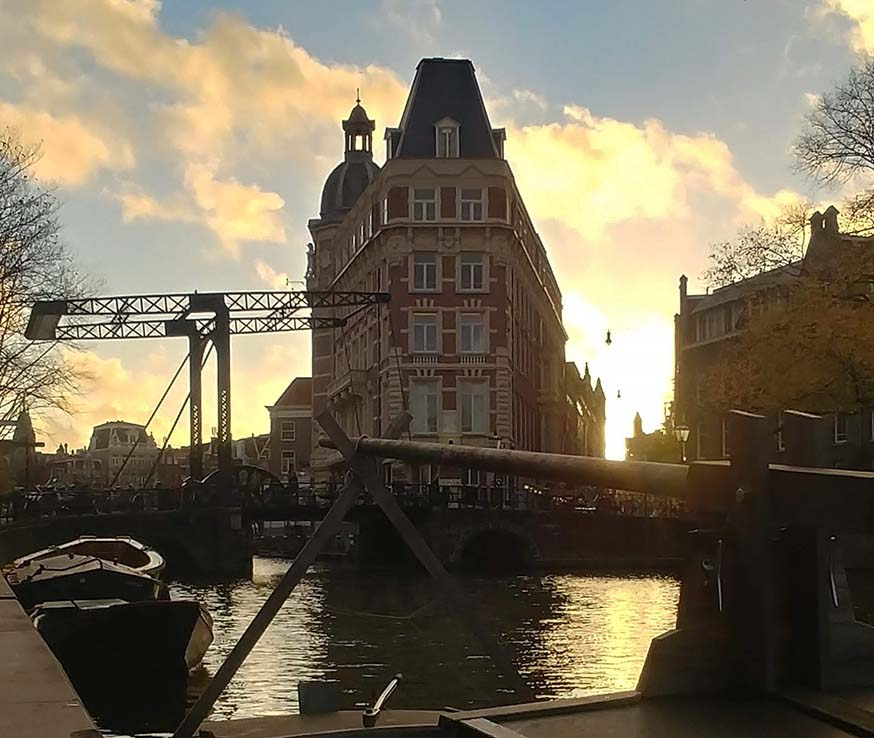
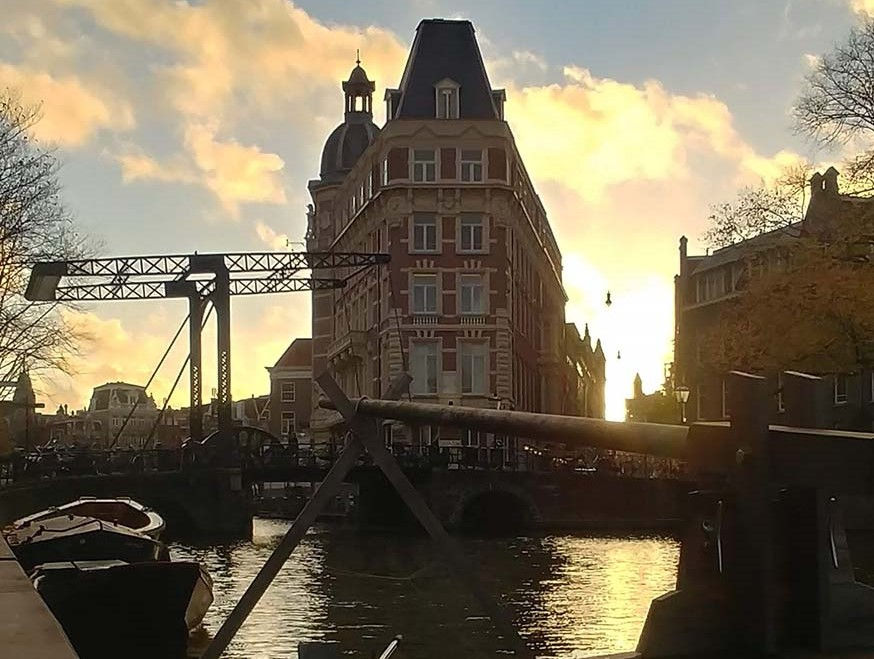
Retoques

diff --git a/src/info/Stickys/Stickys.jsx b/src/info/Stickys/Stickys.jsx
@@ -22,23 +22,55 @@ function Sticky(props) {
                     </section>
                     <section className='info-page'>
                         <div className='stickys'>
-                            <SkillBar 
-                            titel= 'Programs'
-                            photo= {One}
-                            ></SkillBar>
-                            <SkillBar
-                                titel='Programming'
-                                photo={Two}
-                            ></SkillBar>
-                            <SkillBar
-                                titel='Languages'
-                                photo={Three}
-                            ></SkillBar>
-                            <SkillBar
-                                titel='Softs'
-                                photo={Four}
-                            ></SkillBar>
-
+                                <SkillBar 
+                                    titel= 'Design'
+                                    photo={One} 
+                                    program1='Figma'
+                                    program2='Ilustrator'
+                                    program3='Indegin' 
+                                    program4='Miro'
+                                    program5='Blender'
+                                    program6='Photoshop'
+                                    program7='Premier'
+                                    program8='Lightroom'
+                                ></SkillBar>
+                                <SkillBar
+                                    titel='Programming'
+                                    photo={Two}
+                                    program1='Vs Code'
+                                    program2='HTML'
+                                    program3='CSS'
+                                    program4='Javascript'
+                                    program5='React'
+                                    program6='Github'
+                                    program7='Wordpress'
+                                    program8='Saas'
+                                ></SkillBar>
+                               <SkillBar
+                                    titel='Administration'
+                                    photo={Three}
+                                    program1='Suit Microsoft Tools'
+                                    program2='Suit Google Tools'
+                                    program3='Notion'
+                                    program4='Trello'
+                                    program5='Confluence'
+                                    program6='Metodologí Agile'
+                                    program7='Leadership'
+                                    program8='Planing Research'
+                                ></SkillBar>
+                                <SkillBar
+                                    titel='Softs'
+                                    photo={Four}
+                                    program1='Analisis'
+                                    program2='Public Speeach'
+                                    program3='Adaptability'
+                                    program4='Empathy'
+                                    program5='Teamwork'
+                                    program6='Friends and manners'
+                                    program7='Optimist'
+                                    program8='Entusiams'
+        
+                                ></SkillBar> 
                         </div>    
                     </section>
 

diff --git a/src/components/SkillBar/SkillBar.jsx b/src/components/SkillBar/SkillBar.jsx
@@ -6,16 +6,35 @@ import SkillBarmini from '../../components/SkillBar/SkillBarmini'
 function Bar(props) {
 
     return (
-        <div>
+        <div className='total-skills'>
             <div className='titel-skill'>
                 <img className='numer' src={props.photo} alt="" />
                 <h2 className='titel-text'>{props.titel}</h2>
             </div>
             <div className='skill-list'>
-                <SkillBarmini
-                program ='Figma'/>
-                <SkillBarmini
-                program='Adobe'/>            
+                <div className='skill-minilist'>
+                    <SkillBarmini
+                        program ={props.program1}/>
+                    <SkillBarmini
+                        program={props.program2}/>
+                    <SkillBarmini
+                        program={props.program3} />
+                    <SkillBarmini
+                        program={props.program4} /> 
+                </div>
+                <div>
+                    <SkillBarmini
+                        program={props.program5} />
+                    <SkillBarmini
+                        program={props.program6} />
+                    <SkillBarmini
+                        program={props.program7} />
+                    <SkillBarmini
+                        program={props.program8} />
+                </div>
+                
+                
+
             </div>
         </div>
     );

diff --git a/src/components/SkillBar/SkillBar.css b/src/components/SkillBar/SkillBar.css
@@ -1,3 +1,10 @@
+.total-skills{
+    display: flex;
+    justify-content: center;
+    align-items: center;
+    flex-direction: column;
+}
+
 .text-skill-bar {
     margin: 12px;
     font-family: 'Oswald', sans-serif;
@@ -14,7 +21,6 @@
 .skill-bar-c {
     height: 25px;
     border-radius: 12px;
-    width: 77vw;
     display: flex;
     align-self: center;
     border: 1px solid #696969;
@@ -23,8 +29,8 @@
 
 .skill-bar-interna {
     height: 23px;
-    width: 77vw;
-    background-image: linear-gradient(90deg, #E893D5 20%, #F1BCE5 80%, #EEF5F6 80%);
+    width: 300px;
+    background-image: linear-gradient(90deg, #E893D5 8.59%, #F1BCE5 40.68%, rgba(241, 188, 229, 0) 100%);
     border-radius: 12px;
     z-index: 1;
 }
@@ -42,6 +48,19 @@
     font-weight: 600;
     z-index: 2;
     margin: 24px 0 6px 0;
+
+}
+
+@media (min-width: 950px) {
+    .skill-list{
+        display: flex;
+        flex-direction: row;
+        justify-content: center;
+        
+    }
+    .skill-minilist{
+        margin: 0 42px 0 42px;
+    }
 
 }
 

diff --git a/src/info/Photo/Photo.css b/src/info/Photo/Photo.css
@@ -7,9 +7,10 @@
     z-index: 1;
 }
 
-.Sign-total {
+.Skill-total {
     display: flex;
     justify-content: center;
+    flex-direction: column;
     align-items: center;
     margin-top: 3px;
     z-index: 0;
@@ -57,6 +58,7 @@
     border-radius: 24px;
     display: flex;
     justify-content: center;
+    align-items: center;
 }
 .img-phto{
     width: inherit;
@@ -95,13 +97,19 @@
 
 /*MEDIAS*/
 @media (min-width: 950px) {
-    .fondo-sign {
-        position: absolute;
-        top: 425px;
-        display: flex;
-        justify-content: center;
-        z-index: 0;
-        width: 95vw;
-    }
+    .change-photo {
+            width: 600px;
+            height: 400px;
+            margin: 24px;
+            border-radius: 48px;
+            display: flex;
+            justify-content: center;
+        }
+    
+        .img-phto {
+            width: inherit;
+            height: fit-content;
+    
+        }
 
 }

diff --git a/src/info/Photo/Photo.jsx b/src/info/Photo/Photo.jsx
@@ -80,7 +80,10 @@ function Photo(props) {
         { photo: Paisaje8 },
     ];
     const Renders = [
-        { photo: Render13 },
+        
+        { photo: Render12 },
+        { photo: Render11 },
+        { photo: Render1 },
         { photo: Render2 },
         { photo: Render5 },
         { photo: Render6 },
@@ -88,9 +91,10 @@ function Photo(props) {
         { photo: Render8 },
         { photo: Render9 },
         { photo: Render10 },
-        { photo: Render11 },
-        { photo: Render12 },
-        { photo: Render1 },
+        { photo: Render13 },
+        
+        
+        
     ];
 
     return (

diff --git a/src/info/Stickys/Stickys.css b/src/info/Stickys/Stickys.css
@@ -17,12 +17,13 @@
     align-items: center;
 }
 
+
 .change-sign {
     display: flex;
     justify-content: center;
     flex-direction: row;
     align-items: center;
+    width: 100%;
 }
-
 
 

diff --git a/src/pages/Skills/Skills.jsx b/src/pages/Skills/Skills.jsx
@@ -17,7 +17,6 @@ function Skills() {
         { name: 'Skills', type: '' },
         { name: 'Ability', type: 'photo' },
     ];
-    
 
     return (
         <div className="Skills">

diff --git a/src/components/SeccionSign/SeccionSign.css b/src/components/SeccionSign/SeccionSign.css
@@ -19,7 +19,7 @@
 .fondo-sign{
     position: absolute;
     top: 352px;
-    left: 50px;
+    left: 35px;
     z-index: 0;
     display: flex;
     justify-content: center;
